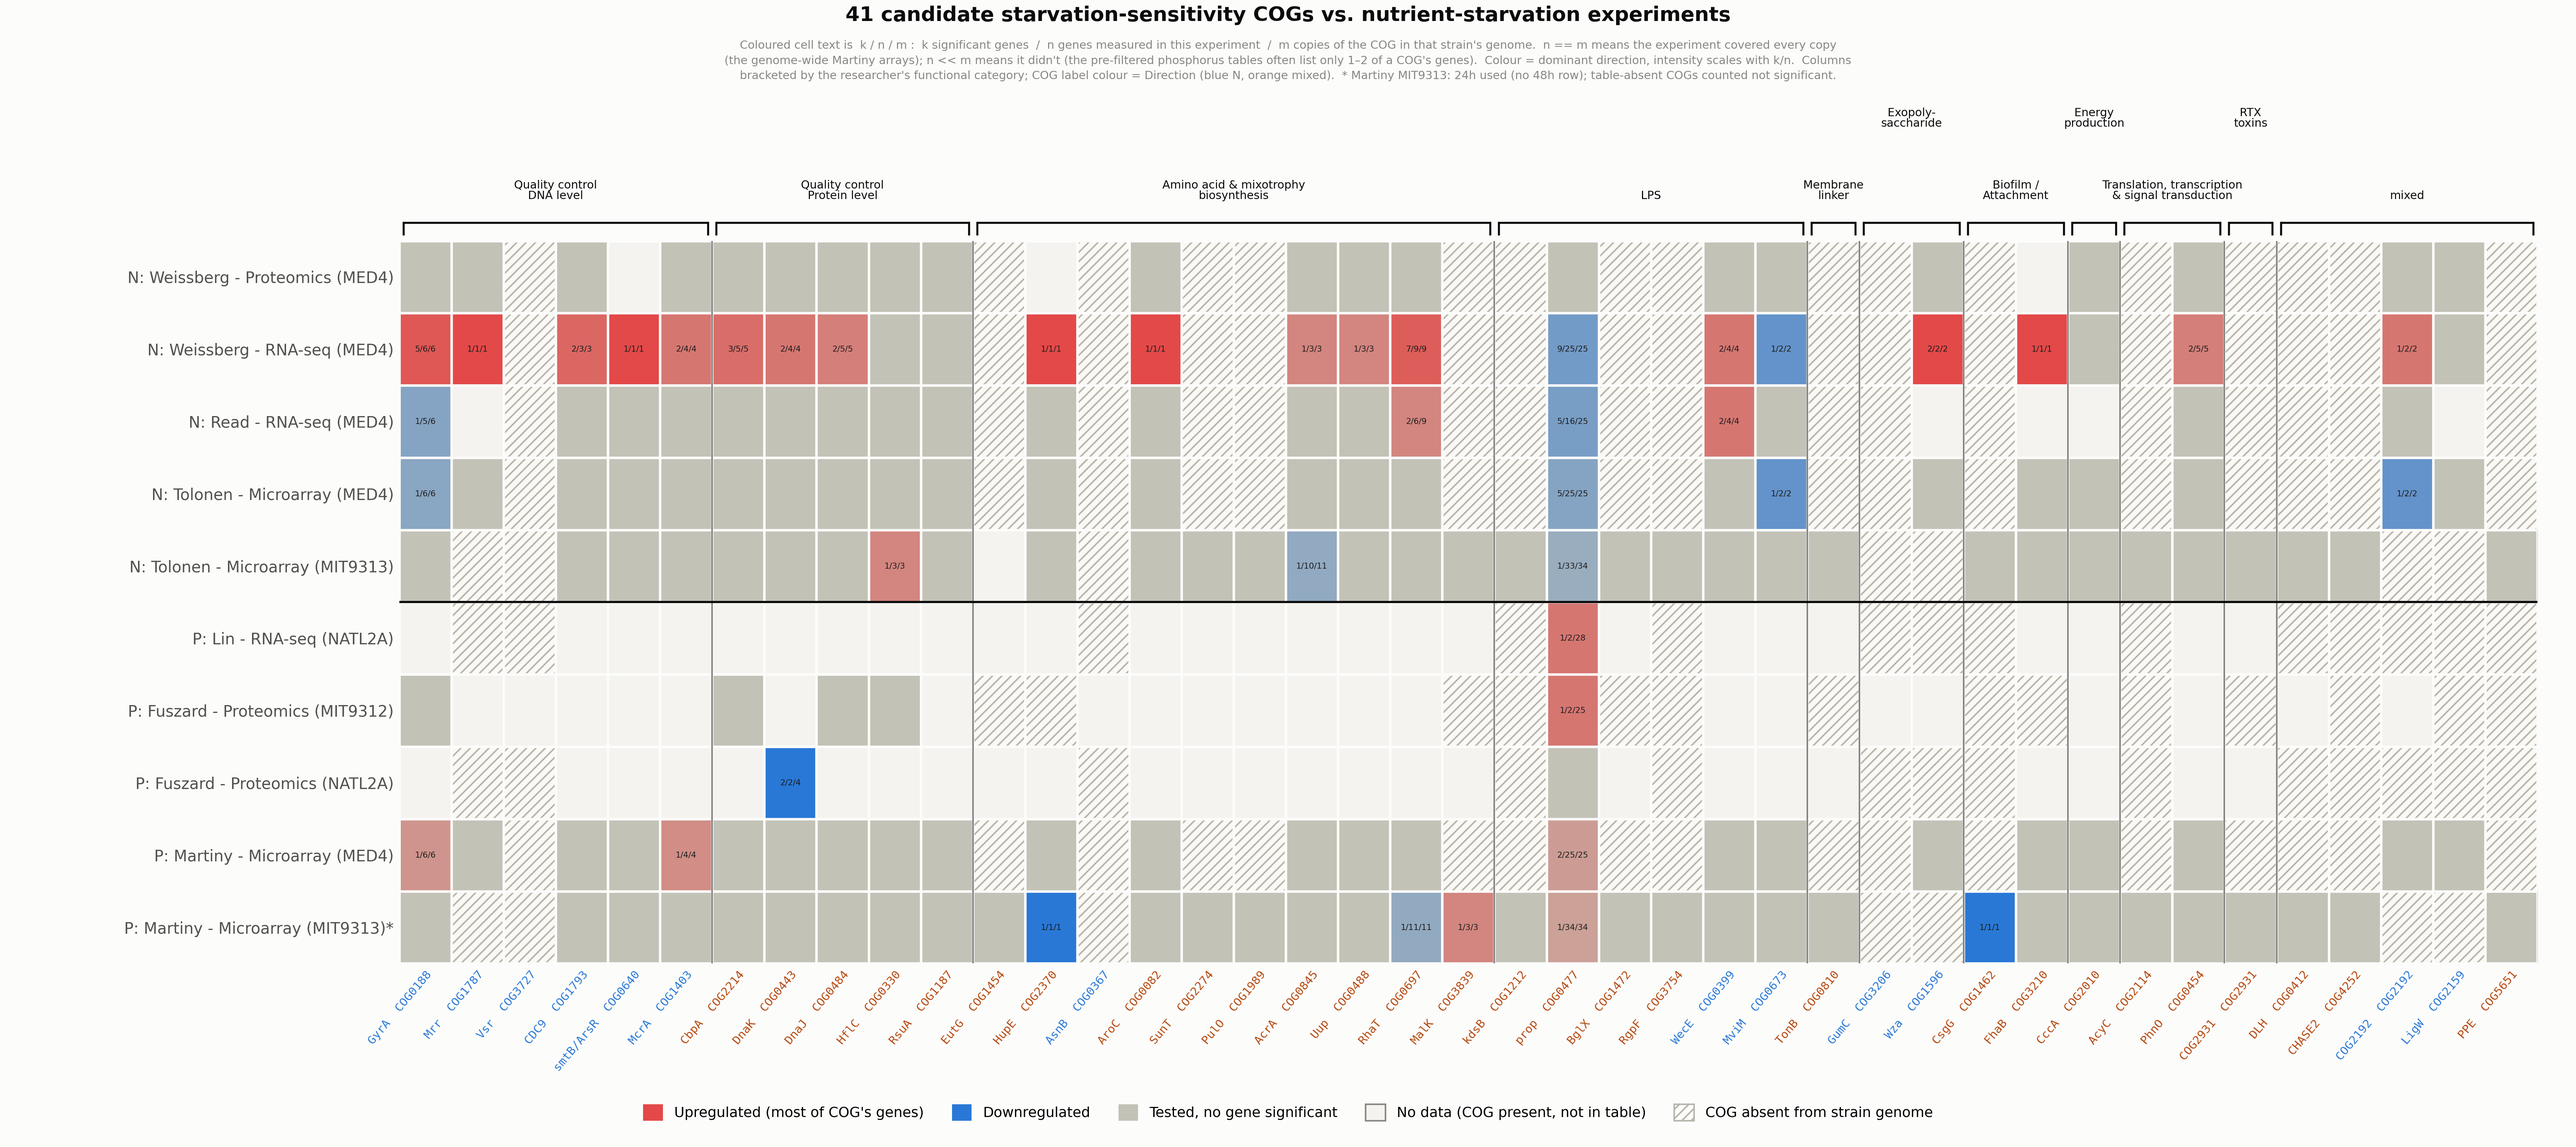
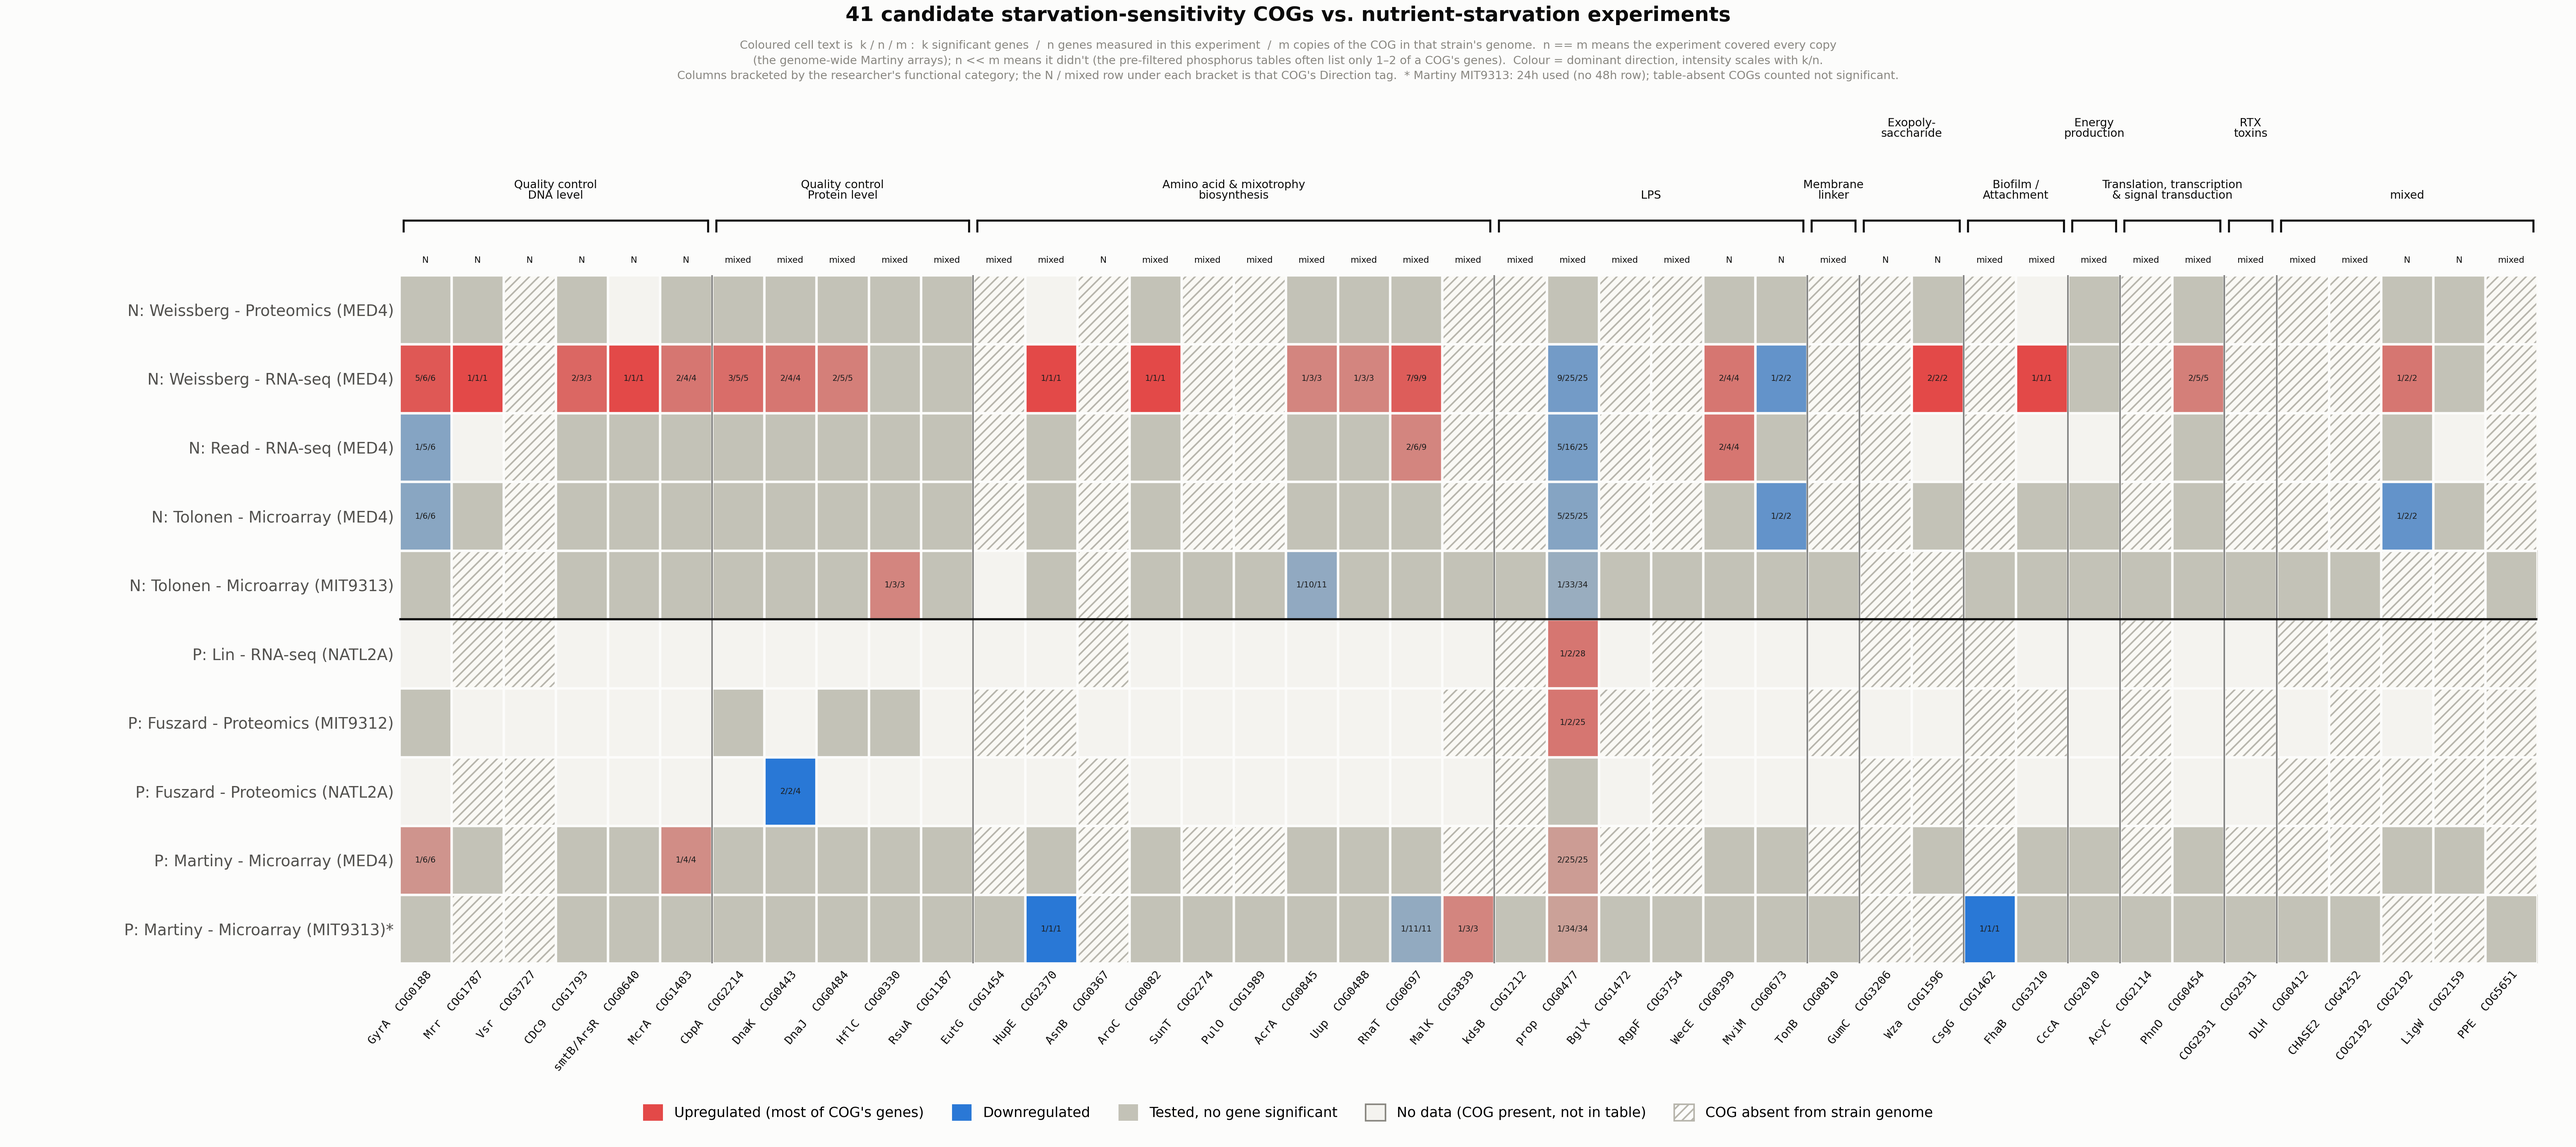
COG heatmap: labels all black, add N/mixed Direction strip under the category brackets
Replace the blue-N / orange-mixed label colouring with black labels plus
an explicit per-COG 'N' / 'mixed' text row directly under each functional-
category bracket. Applied to both the PNG and the editable PowerPoint.

diff --git a/analyses/2026-09-06-cog_starvation_sensitivity_validation/5_analyze/scripts/03_figures.py b/analyses/2026-09-06-cog_starvation_sensitivity_validation/5_analyze/scripts/03_figures.py
@@ -106,7 +106,6 @@ def make_heatmap(matrix, cogs):
     order["General annotation"] = order["General annotation"].ffill()
     cog_order = order["COGs"].tolist()
     labels = order.apply(col_label, axis=1).tolist()
-    label_colors = [DIR_COLOR[d] for d in order["Direction"]]
 
     # contiguous spans of one "General annotation" category, in column order
     groups = []
@@ -178,12 +177,10 @@ def make_heatmap(matrix, cogs):
     for (yi, xi), t in frac_txt.items():
         ax.text(xi, yi, t, ha="center", va="center", fontsize=5.2, color="#1c1c1c")
 
-    # per-COG labels at the BOTTOM (protein + COG, coloured by Direction)
+    # per-COG labels at the BOTTOM (protein + COG), all black
     ax.set_xticks(range(n_cog))
     ax.set_xticklabels(labels, rotation=50, ha="right", rotation_mode="anchor",
-                       fontsize=7.5, fontfamily="monospace")
-    for tick, c in zip(ax.get_xticklabels(), label_colors):
-        tick.set_color(c)
+                       fontsize=7.5, fontfamily="monospace", color=INK)
     ax.xaxis.tick_bottom()
     ax.xaxis.set_label_position("bottom")
     ax.set_xlim(-0.5, n_cog - 0.5)
@@ -199,23 +196,28 @@ def make_heatmap(matrix, cogs):
     for s in ax.spines.values():
         s.set_visible(False)
 
-    # "General annotation" group brackets + category names, ABOVE the heatmap
+    # "General annotation" group brackets + category names, ABOVE the heatmap,
+    # with a per-COG Direction strip (N / mixed, black) just under the brackets
     ax.set_ylim(n_exp - 0.5, -0.5)  # keep data orientation
-    y_bracket = -0.75
+    y_strip = -0.72
+    for xi, d in enumerate(order["Direction"]):
+        ax.text(xi, y_strip, "N" if d == "N" else "mixed", ha="center", va="center",
+                fontsize=5.6, color=INK, clip_on=False)
+    y_bracket = -1.30
     small_run = 0
     for a, b, cat in groups:
         ax.plot([a - 0.42, b + 0.42], [y_bracket, y_bracket], color=INK,
                 linewidth=1.3, clip_on=False, solid_capstyle="butt")
         for x_end in (a - 0.42, b + 0.42):
             ax.plot([x_end, x_end], [y_bracket, y_bracket + 0.16], color=INK,
-                    linewidth=1.3, clip_on=False)  # ticks point down toward the heatmap
+                    linewidth=1.3, clip_on=False)  # ticks point down toward the strip
         if a > 0:  # vertical divider between groups, through the heatmap
             ax.axvline(a - 0.5, color=INK, linewidth=1.0, alpha=0.5)
         # stagger only where consecutive narrow groups would otherwise collide
         is_small = (b - a) < 3
         small_run = small_run + 1 if is_small else 0
         raised = is_small and small_run % 2 == 0
-        y_text = y_bracket - 0.30 - (1.0 if raised else 0.0)
+        y_text = y_bracket - 0.28 - (0.9 if raised else 0.0)
         ax.text((a + b) / 2, y_text, CATEGORY_DISPLAY.get(cat, cat),
                 ha="center", va="bottom", fontsize=7.2, color=INK,
                 linespacing=0.95, clip_on=False)
@@ -235,11 +237,11 @@ def make_heatmap(matrix, cogs):
              "Coloured cell text is  k / n / m :  k significant genes  /  n genes measured in this experiment  /  "
              "m copies of the COG in that strain's genome.  n == m means the experiment covered every copy\n"
              "(the genome-wide Martiny arrays); n << m means it didn't (the pre-filtered phosphorus tables often "
-             "list only 1–2 of a COG's genes).  Colour = dominant direction, intensity scales with k/n.  Columns\n"
-             "bracketed by the researcher's functional category; COG label colour = Direction (blue N, orange mixed).  "
-             "* Martiny MIT9313: 24h used (no 48h row); table-absent COGs counted not significant.",
+             "list only 1–2 of a COG's genes).  Colour = dominant direction, intensity scales with k/n.\n"
+             "Columns bracketed by the researcher's functional category; the N / mixed row under each bracket is that "
+             "COG's Direction tag.  * Martiny MIT9313: 24h used (no 48h row); table-absent COGs counted not significant.",
              ha="center", va="top", fontsize=7.3, color=MUTED, linespacing=1.5)
-    fig.subplots_adjust(left=0.155, right=0.985, top=0.79, bottom=0.16)
+    fig.subplots_adjust(left=0.155, right=0.985, top=0.76, bottom=0.16)
     fig.savefig(FIG_DIR / "01_gene_experiment_heatmap.png", dpi=300, facecolor=SURFACE)
     print(f"Wrote figures/01_gene_experiment_heatmap.png  ({n_exp} x {n_cog})")
 

diff --git a/analyses/2026-09-06-cog_starvation_sensitivity_validation/5_analyze/scripts/04_heatmap_pptx.py b/analyses/2026-09-06-cog_starvation_sensitivity_validation/5_analyze/scripts/04_heatmap_pptx.py
@@ -79,10 +79,10 @@ EXPERIMENT_LABELS = {
 }
 ROW_ORDER = list(EXPERIMENT_LABELS)
 
-SLIDE_W, SLIDE_H = 22.0, 9.0
+SLIDE_W, SLIDE_H = 22.0, 9.2
 LEFT_LABELS = 3.4
 GRID_LEFT = LEFT_LABELS + 0.1
-GRID_TOP = 2.6
+GRID_TOP = 2.85
 CELL_H = 0.42
 
 
@@ -181,27 +181,32 @@ def main() -> None:
           16, bold=True, align=PP_ALIGN.CENTER)
     _text(slide, 0.4, 0.46, SLIDE_W - 0.8, 0.44,
           "cell text k / n / m = significant / measured in this experiment / copies in that strain's genome  ·  "
-          "fill = dominant direction, blended toward grey by k/n  ·  columns grouped by functional category  ·  "
-          "* Martiny MIT9313 at 24h (no 48h row); table-absent COGs = not significant",
+          "fill = dominant direction, blended toward grey by k/n  ·  columns grouped by functional category, "
+          "N / mixed strip = that COG's Direction tag  ·  * Martiny MIT9313 at 24h (no 48h row); table-absent COGs = not significant",
           9, color=MUTED, align=PP_ALIGN.CENTER)
 
-    # group brackets + category labels
+    # group brackets + category labels, with a per-COG Direction strip beneath
     for a, b, cat in groups:
         x0 = GRID_LEFT + a * cw
         x1 = GRID_LEFT + (b + 1) * cw
-        bar = slide.shapes.add_shape(MSO_SHAPE.RECTANGLE, Inches(x0 + 0.03), Inches(GRID_TOP - 0.30),
+        bar = slide.shapes.add_shape(MSO_SHAPE.RECTANGLE, Inches(x0 + 0.03), Inches(GRID_TOP - 0.52),
                                      Inches(x1 - x0 - 0.06), Inches(0.022))
         bar.fill.solid(); bar.fill.fore_color.rgb = INK
         bar.line.fill.background(); bar.shadow.inherit = False
-        _text(slide, x0 - 0.4, GRID_TOP - 0.86, (x1 - x0) + 0.8, 0.5,
+        _text(slide, x0 - 0.4, GRID_TOP - 1.10, (x1 - x0) + 0.8, 0.5,
               CATEGORY_DISPLAY.get(cat, cat), 8, color=INK, align=PP_ALIGN.CENTER,
               anchor=MSO_ANCHOR.BOTTOM)
 
-    # column labels (rotated), coloured by Direction
-    for j, (lab, d) in enumerate(zip(col_labels, col_dir)):
+    # Direction strip: N / mixed per COG, black, just under the brackets
+    for j, d in enumerate(col_dir):
+        _text(slide, GRID_LEFT + j * cw, GRID_TOP - 0.32, cw, 0.24,
+              "N" if d == "N" else "mixed", 7, color=INK, align=PP_ALIGN.CENTER)
+
+    # column labels (rotated), all black
+    for j, lab in enumerate(col_labels):
         cx = GRID_LEFT + j * cw + cw / 2
         _text(slide, cx - 1.0, GRID_TOP + len(ROW_ORDER) * CELL_H + 0.15, 2.0, 0.24, lab, 8,
-              color=DIR_BLUE if d == "N" else DIR_ORANGE, align=PP_ALIGN.LEFT, rot=300, font="Consolas")
+              color=INK, align=PP_ALIGN.LEFT, rot=300, font="Consolas")
 
     # rows: label + 41 cells
     for i, exp in enumerate(ROW_ORDER):

diff --git a/analyses/2026-09-06-cog_starvation_sensitivity_validation/5_analyze/notebook.md b/analyses/2026-09-06-cog_starvation_sensitivity_validation/5_analyze/notebook.md
@@ -33,15 +33,15 @@ against the step-3 background — **nitrogen only** (pooled + both subsets).
   biosynthesis, LPS, Membrane linker, Exopolysaccharide,
   Biofilm/Attachment, Energy production, Translation/transcription/signal
   transduction, RTX toxins, mixed), with vertical dividers between groups.
-  COG label colour = Direction (blue N, orange mixed). Coloured cell text
-  is **`k / n / m`** — `k` significant genes / `n` genes measured in that
-  experiment / `m` copies of the COG in that strain's genome; `m` is
-  printed only when `n < m` (the experiment's table did not cover every
-  copy — the pre-filtered phosphorus tables often list only 1–2 of a
-  COG's genes, so `prop` under Lin reads `1/2/28`). Colour = dominant
-  direction, intensity scaled by `k/n`. Walkthrough palette; COGs absent
-  from a strain's genome drawn hatched. `k/n/m` is always printed with all
-  three numbers (so `n == m`, full coverage, shows the number twice).
+  All COG/protein labels are black; a per-COG **N / mixed Direction strip**
+  sits directly under each category bracket. Coloured cell text is
+  **`k / n / m`** (always all three) — `k` significant genes / `n` genes
+  measured in that experiment / `m` copies of the COG in that strain's
+  genome. `n == m` means the experiment covered every copy (the genome-wide
+  Martiny arrays); `n << m` means it didn't (the pre-filtered phosphorus
+  tables often list only 1–2 of a COG's genes, so `prop` under Lin reads
+  `1/2/28`). Colour = dominant direction, intensity scaled by `k/n`.
+  Walkthrough palette; COGs absent from a strain's genome drawn hatched.
 - `figures/01_gene_experiment_heatmap.pptx` (`scripts/04_heatmap_pptx.py`,
   `uv run --with python-pptx`) — the same heatmap as an editable
   PowerPoint: 410 named cell rectangles + per-cell `k/n/m` text boxes +

diff --git a/analyses/2026-09-06-cog_starvation_sensitivity_validation/paper.md b/analyses/2026-09-06-cog_starvation_sensitivity_validation/paper.md
@@ -130,11 +130,14 @@ bracketed and labelled by the researcher's "General annotation" functional
 category (Quality control – DNA / Protein level, Amino acid & mixotrophy
 biosynthesis, LPS, Membrane linker, Exopolysaccharide, Biofilm/Attachment,
 Energy production, Translation/transcription/signalling, RTX toxins,
-mixed); COG label colour = Direction. Coloured cell text is `k / n / m` —
-`k` significant / `n` genes measured in that experiment / `m` genome
-copies in that strain (`m` shown only when `n < m`); colour = dominant
-direction, intensity scales with `k/n`; walkthrough palette; COGs absent
-from a strain's genome hatched. `[KG]` The field is mostly grey
+mixed), with a per-COG N / mixed Direction strip under each bracket; all
+labels black. Coloured cell text is `k / n / m` (always all three) — `k`
+significant / `n` genes measured in that experiment / `m` genome copies in
+that strain; colour = dominant direction, intensity scales with `k/n`;
+walkthrough palette; COGs absent from a strain's genome hatched. An
+editable PowerPoint of the figure is at
+`5_analyze/figures/01_gene_experiment_heatmap.pptx`
+(`scripts/04_heatmap_pptx.py`). `[KG]` The field is mostly grey
 (tested, no gene significant); the Weissberg RNA-seq row is the hottest
 (that experiment has a high genome-wide baseline, established in the
 walkthrough); the entire phosphorus block is grey/pale.
